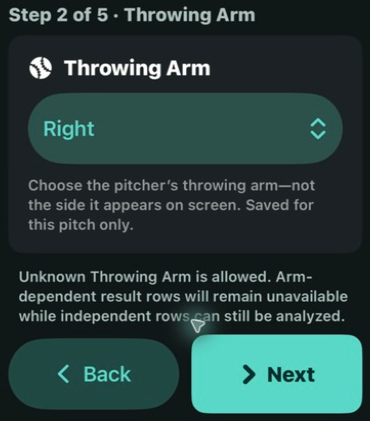
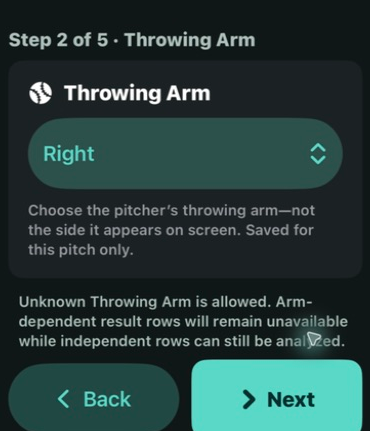
Replace dark tutorial captures with August 27 pitches

diff --git a/content/site.ts b/content/site.ts
@@ -473,16 +473,16 @@ export const tutorialMedia: Record<string, TutorialMedia> = {
   sideSetup: tutorialImage("side-setup.webp", 1536, 1024, "A horizontal phone on a tripod beside a pitcher, with room for the entire stride.", "Side View: record from beside the pitcher. Landscape is recommended. Leave room for the whole delivery.", "Instructional illustration"),
   framing: tutorialImage("framing-guides.svg", 960, 650, "Portrait Back and landscape Side framing rectangles, each with a dashed vertical centre line and a full-body figure inside.", "The framing guide uses a rectangle and dashed centre line. This diagram follows the current guide proportions; it is not an app screen or calibration tool.", "Instructional illustration"),
   sequence: tutorialImage("recording-sequence.svg", 960, 320, "Four physical recording stages: a steady phone, a pitcher throwing, waiting for saving, and reviewing the saved pitch.", "Set up, record the delivery, stop and wait, then review. Illustration of the physical sequence; phone screens are abstract.", "Instructional illustration"),
-  cameraView: tutorialImage("camera-view.png", 370, 483, "Camera View step with Back View selected and the Next button.", "An existing Back View pitch. Confirm the camera position used for your own video."),
-  throwingArm: tutorialImage("throwing-arm.png", 370, 421, "Throwing Arm step with Right selected, guidance for Unknown, and Back and Next buttons.", "Choose the pitcher's throwing arm, regardless of where the arm appears in the image."),
-  marking: tutorialImage("mark-ffc.png", 370, 698, "Saved Front Foot Contact at exact frame 831 of 1,296, with playback, fine adjustment and Move Front Foot Contact controls.", "An existing FFC mark. The exact selected frame and the saved frame are shown separately. This screenshot does not prescribe an event frame for another video."),
+  cameraView: tutorialImage("camera-view.png", 370, 498, "Camera View step with Back View selected and the Next button.", "An existing Back View pitch. Confirm the camera position used for your own video."),
+  throwingArm: tutorialImage("throwing-arm.png", 370, 431, "Throwing Arm step with Right selected, guidance for Unknown, and Back and Next buttons.", "Choose the pitcher's throwing arm, regardless of where the arm appears in the image."),
+  marking: tutorialImage("mark-ffc.png", 370, 698, "Saved Front Foot Contact at exact frame 1,212 of 1,643, with playback, fine adjustment and Move Front Foot Contact controls.", "An existing FFC mark. The exact selected frame and the saved frame are shown separately. This screenshot does not prescribe an event frame for another video."),
   analyze: tutorialImage("analyze.png", 370, 418, "Pitch Mechanics summary showing three of three results up to date and the Analyze Pitch button.", "An existing pitch with current results. Viewing this screen does not run a new analysis."),
-  result: tutorialImage("results-back.png", 346, 387, "A saved 2D Trunk-Segment Orientation result of 4 degrees toward image left, with a Details and Annotated Image link.", "One real saved Back View result at FFC. The displayed value describes this image; it is not a target or grade."),
+  result: tutorialImage("results-back.png", 346, 387, "A saved 2D Trunk-Segment Orientation result of 7 degrees toward image left, with a Details and Annotated Image link.", "One real saved Back View result at FFC. The displayed value describes this image; it is not a target or grade."),
   evidence: tutorialImage("evidence.png", 315, 723, "The saved pitching frame annotated with trunk landmarks and a vertical reference, followed by Save to Photos and Share.", "The annotated evidence behind that result. The original image proportions, landmarks and saved value are unchanged."),
   explorer: tutorialImage("explorer-home.png", 370, 650, "Your pitching history with Review marked frames and Measurement history entry points.", "Start with the marked video frames or explore available measurements."),
-  marked: tutorialImage("marked-history.png", 370, 690, "Marked frames for Front Foot Contact, List and Frames options, saved pitch thumbnail and Choose A and Choose B buttons.", "Review the exact marks you saved. The number of marked pitches depends on the selected event and filters."),
-  chooseB: tutorialImage("choose-b.png", 370, 580, "Choose pitch B sheet with one retained pitch already selected as A and another eligible FFC mark.", "Select a different pitch for B. Both sides compare the same marked event."),
-  comparison: tutorialImage("comparison.png", 370, 661, "Two retained Front Foot Contact frames side by side, with Open A, Open B and Auto layout controls.", "A real pair with different camera views. The layout preserves image proportions; placing frames together does not make their perspectives equivalent."),
+  marked: tutorialImage("marked-history.png", 370, 690, "August 27 Front Foot Contact marks, List and Frames options, two saved pitch thumbnails and Choose A and Choose B buttons.", "Review the exact marks you saved. The number of marked pitches depends on the selected event and filters."),
+  chooseB: tutorialImage("choose-b.png", 370, 580, "Choose pitch B sheet with one August 27 pitch already selected as A and another eligible August 27 FFC mark.", "Select a different pitch for B. Both sides compare the same marked event."),
+  comparison: tutorialImage("comparison.png", 370, 661, "Two August 27 Front Foot Contact frames side by side, with Open A, Open B and Auto layout controls.", "A real pair with different camera views. The layout preserves image proportions; placing frames together does not make their perspectives equivalent."),
   chooser: tutorialImage("measurement-chooser.png", 370, 654, "The upper part of the measurement chooser, showing Back-view measures and the Side-view ankle-span ratio.", "Choose one measurement. This crop shows the upper part of the list; lead-knee bend at FFC and Ball Release are also available for Side View."),
   chart: tutorialImage("chart.png", 370, 571, "History Chart with individual recorded values in degrees and Chart, Table and Evidence tabs.", "Trunk-orientation history in Chart. These are actual saved observations, not benchmark or ideal values."),
   table: tutorialImage("table.png", 370, 535, "History Table showing two dated retained pitches and their saved degree values.", "Table makes individual contributors readable. A pitch date and the date the video was added can differ."),

diff --git a/docs/ASSET_MANIFEST.md b/docs/ASSET_MANIFEST.md
@@ -168,16 +168,16 @@ Each screenshot shares the owner authorization and privacy review above.
 | `side-setup.webp` | 1536×1024 | Original ImageGen 1536×1024; WebP quality 88 | Side View: record from beside the pitcher. Landscape is recommended. Leave room for the whole delivery. Alt: “A horizontal phone on a tripod beside a pitcher, with room for the entire stride.” |
 | `framing-guides.svg` | 960×650 | Original SVG; no raster processing | The framing guide uses a rectangle and dashed centre line. This diagram follows the current guide proportions; it is not an app screen or calibration tool. Alt: “Portrait Back and landscape Side framing rectangles, each with a dashed vertical centre line and a full-body figure inside.” |
 | `recording-sequence.svg` | 960×320 | Original SVG; no raster processing | Set up, record the delivery, stop and wait, then review. Illustration of the physical sequence; phone screens are abstract. Alt: “Four physical recording stages: a steady phone, a pitcher throwing, waiting for saving, and reviewing the saved pitch.” |
-| `camera-view.png` | 370×483 | Current app; crop 20, 359, 370, 483 | An existing Back View pitch. Confirm the camera position used for your own video. Alt: “Camera View step with Back View selected and the Next button.” |
-| `throwing-arm.png` | 370×421 | Current app; crop 20, 423, 370, 421 | Choose the pitcher's throwing arm, regardless of where the arm appears in the image. Alt: “Throwing Arm step with Right selected, guidance for Unknown, and Back and Next buttons.” |
-| `mark-ffc.png` | 370×698 | Current app; crop 20, 158, 370, 698 | An existing FFC mark. The exact selected frame and the saved frame are shown separately. This screenshot does not prescribe an event frame for another video. Alt: “Saved Front Foot Contact at exact frame 831 of 1,296, with playback, fine adjustment and Move Front Foot Contact controls.” |
-| `analyze.png` | 370×418 | Current app; crop 20, 458, 370, 418 | An existing pitch with current results. Viewing this screen does not run a new analysis. Alt: “Pitch Mechanics summary showing three of three results up to date and the Analyze Pitch button.” |
-| `results-back.png` | 346×387 | Current app; crop 30, 469, 346, 387 | One real saved Back View result at FFC. The displayed value describes this image; it is not a target or grade. Alt: “A saved 2D Trunk-Segment Orientation result of 4 degrees toward image left, with a Details and Annotated Image link.” |
-| `evidence.png` | 315×723 | Current app; crop 45, 158, 315, 723 | The annotated evidence behind that result. The original image proportions, landmarks and saved value are unchanged. Alt: “The saved pitching frame annotated with trunk landmarks and a vertical reference, followed by Save to Photos and Share.” |
+| `camera-view.png` | 370×498 | Current app, August 27 recapture; crop 20, 344, 370, 498 | An existing Back View pitch. Confirm the camera position used for your own video. Alt: “Camera View step with Back View selected and the Next button.” |
+| `throwing-arm.png` | 370×431 | Current app, August 27 recapture; crop 20, 398, 370, 431 | Choose the pitcher's throwing arm, regardless of where the arm appears in the image. Alt: “Throwing Arm step with Right selected, guidance for Unknown, and Back and Next buttons.” |
+| `mark-ffc.png` | 370×698 | Current app, August 27 recapture; crop 20, 158, 370, 698 | An existing FFC mark. The exact selected frame and the saved frame are shown separately. This screenshot does not prescribe an event frame for another video. Alt: “Saved Front Foot Contact at exact frame 1,212 of 1,643, with playback, fine adjustment and Move Front Foot Contact controls.” |
+| `analyze.png` | 370×418 | Current app, August 27 recapture; crop 20, 458, 370, 418 | An existing pitch with current results. Viewing this screen does not run a new analysis. Alt: “Pitch Mechanics summary showing three of three results up to date and the Analyze Pitch button.” |
+| `results-back.png` | 346×387 | Current app, August 27 recapture; crop 30, 469, 346, 387 | One real saved Back View result at FFC. The displayed value describes this image; it is not a target or grade. Alt: “A saved 2D Trunk-Segment Orientation result of 7 degrees toward image left, with a Details and Annotated Image link.” |
+| `evidence.png` | 315×723 | Current app, August 27 recapture; crop 45, 158, 315, 723 | The annotated evidence behind that result. The original image proportions, landmarks and saved value are unchanged. Alt: “The saved pitching frame annotated with trunk landmarks and a vertical reference, followed by Save to Photos and Share.” |
 | `explorer-home.png` | 370×650 | Current app; crop 20, 166, 370, 650 | Start with the marked video frames or explore available measurements. Alt: “Your pitching history with Review marked frames and Measurement history entry points.” |
-| `marked-history.png` | 370×690 | Current app; crop 20, 169, 370, 690 | Review the exact marks you saved. The number of marked pitches depends on the selected event and filters. Alt: “Marked frames for Front Foot Contact, List and Frames options, saved pitch thumbnail and Choose A and Choose B buttons.” |
-| `choose-b.png` | 370×580 | Current app; crop 20, 110, 370, 580 | Select a different pitch for B. Both sides compare the same marked event. Alt: “Choose pitch B sheet with one retained pitch already selected as A and another eligible FFC mark.” |
-| `comparison.png` | 370×661 | Current app; crop 20, 180, 370, 661 | A real pair with different camera views. The layout preserves image proportions; placing frames together does not make their perspectives equivalent. Alt: “Two retained Front Foot Contact frames side by side, with Open A, Open B and Auto layout controls.” |
+| `marked-history.png` | 370×690 | Current app, August 27 recapture; crop 20, 169, 370, 690 | Review the exact marks you saved. The number of marked pitches depends on the selected event and filters. Alt: “August 27 Front Foot Contact marks, List and Frames options, two saved pitch thumbnails and Choose A and Choose B buttons.” |
+| `choose-b.png` | 370×580 | Current app, August 27 recapture; crop 20, 110, 370, 580 | Select a different pitch for B. Both sides compare the same marked event. Alt: “Choose pitch B sheet with one August 27 pitch already selected as A and another eligible August 27 FFC mark.” |
+| `comparison.png` | 370×661 | Current app, August 27 recapture; crop 20, 180, 370, 661 | A real pair with different camera views. The layout preserves image proportions; placing frames together does not make their perspectives equivalent. Alt: “Two August 27 Front Foot Contact frames side by side, with Open A, Open B and Auto layout controls.” |
 | `measurement-chooser.png` | 370×654 | Current app; crop 20, 185, 370, 654 | Choose one measurement. This crop shows the upper part of the list; lead-knee bend at FFC and Ball Release are also available for Side View. Alt: “The upper part of the measurement chooser, showing Back-view measures and the Side-view ankle-span ratio.” |
 | `chart.png` | 370×571 | Current app; crop 20, 169, 370, 571 | Trunk-orientation history in Chart. These are actual saved observations, not benchmark or ideal values. Alt: “History Chart with individual recorded values in degrees and Chart, Table and Evidence tabs.” |
 | `table.png` | 370×535 | Current app; crop 20, 216, 370, 535 | Table makes individual contributors readable. A pitch date and the date the video was added can differ. Alt: “History Table showing two dated retained pitches and their saved degree values.” |
@@ -192,8 +192,27 @@ The two generated setup illustrations use generic adult figures and abstract
 phones. They inherit no private photo and imply neither calibrated geometry nor
 ideal mechanics. The original framing/sequence SVGs are instructional diagrams,
 not UI. Generation is owner-authorized; no third-party trademark clearance is
-claimed. No existing asset is changed, replaced or removed, and no additional
-unused tutorial asset is published.
+claimed. The follow-up below replaces nine screenshot files at their stable URLs;
+no additional unused tutorial asset is published.
+
+### August 27 footage refresh
+
+At the owner's request, nine screenshots were recaptured in the same September 16
+session (September 17 UTC), replacing the darker September 14 examples. The new
+Back example is August 27 IMG_7594: saved FFC 1,212 of 1,643 and its existing 7°
+toward-image-left trunk result. The Side comparison is August 27 IMG_7595, saved
+FFC 456. No marks or result values were edited or recalculated. Camera View,
+Throwing Arm and Analyze captures were also refreshed from that same Back pitch
+for consistency. List, chooser and comparison captures use an ephemeral August
+27-only date filter; leaving and reopening Explorer restored All saved history,
+Frames and empty A/B selections. No Saved View was created.
+
+Only lossless crops are applied; no brightness adjustment, retouching, compositing
+or fabricated UI. The two input-control crops have revised dimensions to retain
+complete controls. All other screenshot dimensions and all illustration files are
+unchanged. Crops exclude system/location/profile information. The eleven remaining
+screenshots show general controls or previously authorized history and contain no
+September 14 pitching image. Raw captures remain outside the repository.
 
 ### Final asset SHA-256
 
@@ -202,16 +221,16 @@ unused tutorial asset is published.
[25 lines of base64/hex data omitted]

diff --git a/docs/TUTORIAL_REVIEW.md b/docs/TUTORIAL_REVIEW.md
@@ -128,3 +128,43 @@ a running service, 1.6 GB free disk, approximately 513 MiB available memory and
 owner explicitly approved its use for this tutorial deployment per DEPLOYMENT.md,
 requiring successful production checks/build before restart and no Node change. No
 production source, dependency, configuration or service mutation preceded approval.
+
+
+## Follow-up: brighter August 27 screenshots
+
+The owner found the September 14 footage too dark and requested August 27 pitches.
+The clean website starting point for this bounded refresh was
+`e72b6a650c228caa83827813947bc7dbc3dba0d0`; fast-forward pull succeeded. The Motion
+reference remains clean at the same read-only SHA above. Mirroring resumed with
+My Pitches already scrolled to August 27, so no import was needed.
+
+Nine screenshots were recaptured from Back IMG_7594 and Side IMG_7595. The Back
+pitch's existing FFC is 1,212/1,643 and its saved trunk result is 7° toward image
+left; the Side comparison FFC is 456. Matching alt text and two changed crop
+heights were updated. All screenshot pixels are direct lossless crops; brighter
+footage replaces the previous source without changing exposure or UI values.
+
+Navigation reviewed existing inputs, used Go to saved Frame, opened existing
+results/evidence and selected a temporary August 27-only Explorer range and A/B
+pair. No Camera View/Throwing Arm selection, mark edit, analysis, pitch/profile
+edit, import, recording, Saved View write, Photos export or share was performed.
+Reopening marked frames restored All saved history, Frames and empty A/B choices;
+then the app returned to the August 27 library, its starting screen. Three of
+three Back results still displayed as current. Preservation is bounded to these
+observed actions/states, with no forensic file comparison claimed.
+
+See prompt 020 for refreshed validation and release sequencing. The complete
+initial functionality checks above remain the baseline; this follow-up changes
+media and matching descriptors only.
+
+Refresh validation: TypeScript/ESLint, standard Next.js build, retained Vinext
+build and whitespace checks pass on Node 24.10.0. All nine replacement PNGs match
+their source crop pixels. All 24 assets match their manifest hashes, dimensions
+and alt text. HTTP route/link/media checks pass; rendered-content scans contain
+neither old September footage identifiers nor stale frame/value descriptions or
+private paths/location/developer references. Tutorial checks at effective widths
+320, 390, 768, 1024 and 1440 show no overflow, missing alt text or broken loaded
+images. Desktop marking, phone evidence and tablet comparison were visually
+reviewed; step links/focus and module navigation work with no browser errors.
+The unchanged production dependency audit still has four findings. No new
+full-device Safari/VoiceOver acceptance is claimed.

diff --git a/docs/TUTORIAL_MEDIA.md b/docs/TUTORIAL_MEDIA.md
@@ -15,13 +15,23 @@ color, label or image content was painted over or replaced. The native mirrored
 pointer visible in some captures is retained, not retouched. Crops keep original
 pixel resolution; PNGs use the unoptimized image path and can be opened directly.
 
-Published footage principally shows the retained September 14 Back/Side practice
-clips whose app labels are IMG_8802 and IMG_8801. The chart/table also display actual
-stored August observations, including IMG_7330 and IMG_7594. These are authorized
-media identifiers, not athlete names. The chooser crop excludes later unrelated
-rows. No profile identity/date of birth, notifications or private account details
-are included. Screenshots are examples of this retained library, not prescriptions
-for event timing or ideal values. No new video was imported or recorded.
+The final footage examples show the brighter August 27 pitches requested by the
+owner: IMG_7594 (Back View, FFC 1,212 of 1,643, existing 7° toward-image-left trunk
+result) and IMG_7595 (Side View, FFC 456). Nine files were recaptured and replaced
+at the same URLs: camera-view, throwing-arm, mark-ffc, analyze, results-back,
+evidence, marked-history, choose-b and comparison. The earlier dark September 14
+footage no longer appears in public tutorial images. This was a source replacement,
+not a brightness edit. The chart/table retain real August observations including
+IMG_7330 and IMG_7594; the eleven other screenshots are unchanged.
+
+These are authorized media identifiers, not athlete names. No profile identity,
+date of birth, notifications or private account details are included. Screenshots
+are examples of this retained library, not prescriptions for event timing or ideal
+values. No new video was imported or recorded, and no marks or results were changed.
+An August 27-only Explorer filter and A/B selections were temporary; reopening the
+view confirmed the default All saved history, Frames and empty A/B state before
+returning to My Pitches. The refreshed crop rectangles, dimensions and hashes are
+recorded in ASSET_MANIFEST.md.
 
 ## Original physical setup illustrations
 

diff --git a/docs/WEBSITE_PRIVACY_AUDIT.md b/docs/WEBSITE_PRIVACY_AUDIT.md
@@ -175,3 +175,10 @@ local. The existing Privacy Policy and effective date are unchanged. Support gai
 one getting-started tutorial link. See `TUTORIAL_REVIEW.md` for the device action
 scope and `ASSET_MANIFEST.md` for the exact publication set. This dated extension
 supersedes only the prior no-screenshot finding for these explicitly approved assets.
+
+
+The owner's immediate tutorial follow-up replaces nine screenshot crops with
+brighter August 27 footage (IMG_7594/IMG_7595). It uses the same explicit public
+media authorization and crop-only treatment. System/location/profile details
+remain excluded; raw captures stay outside the repository. No app data mutation,
+new collection mechanism or policy-copy change accompanies the replacement.
